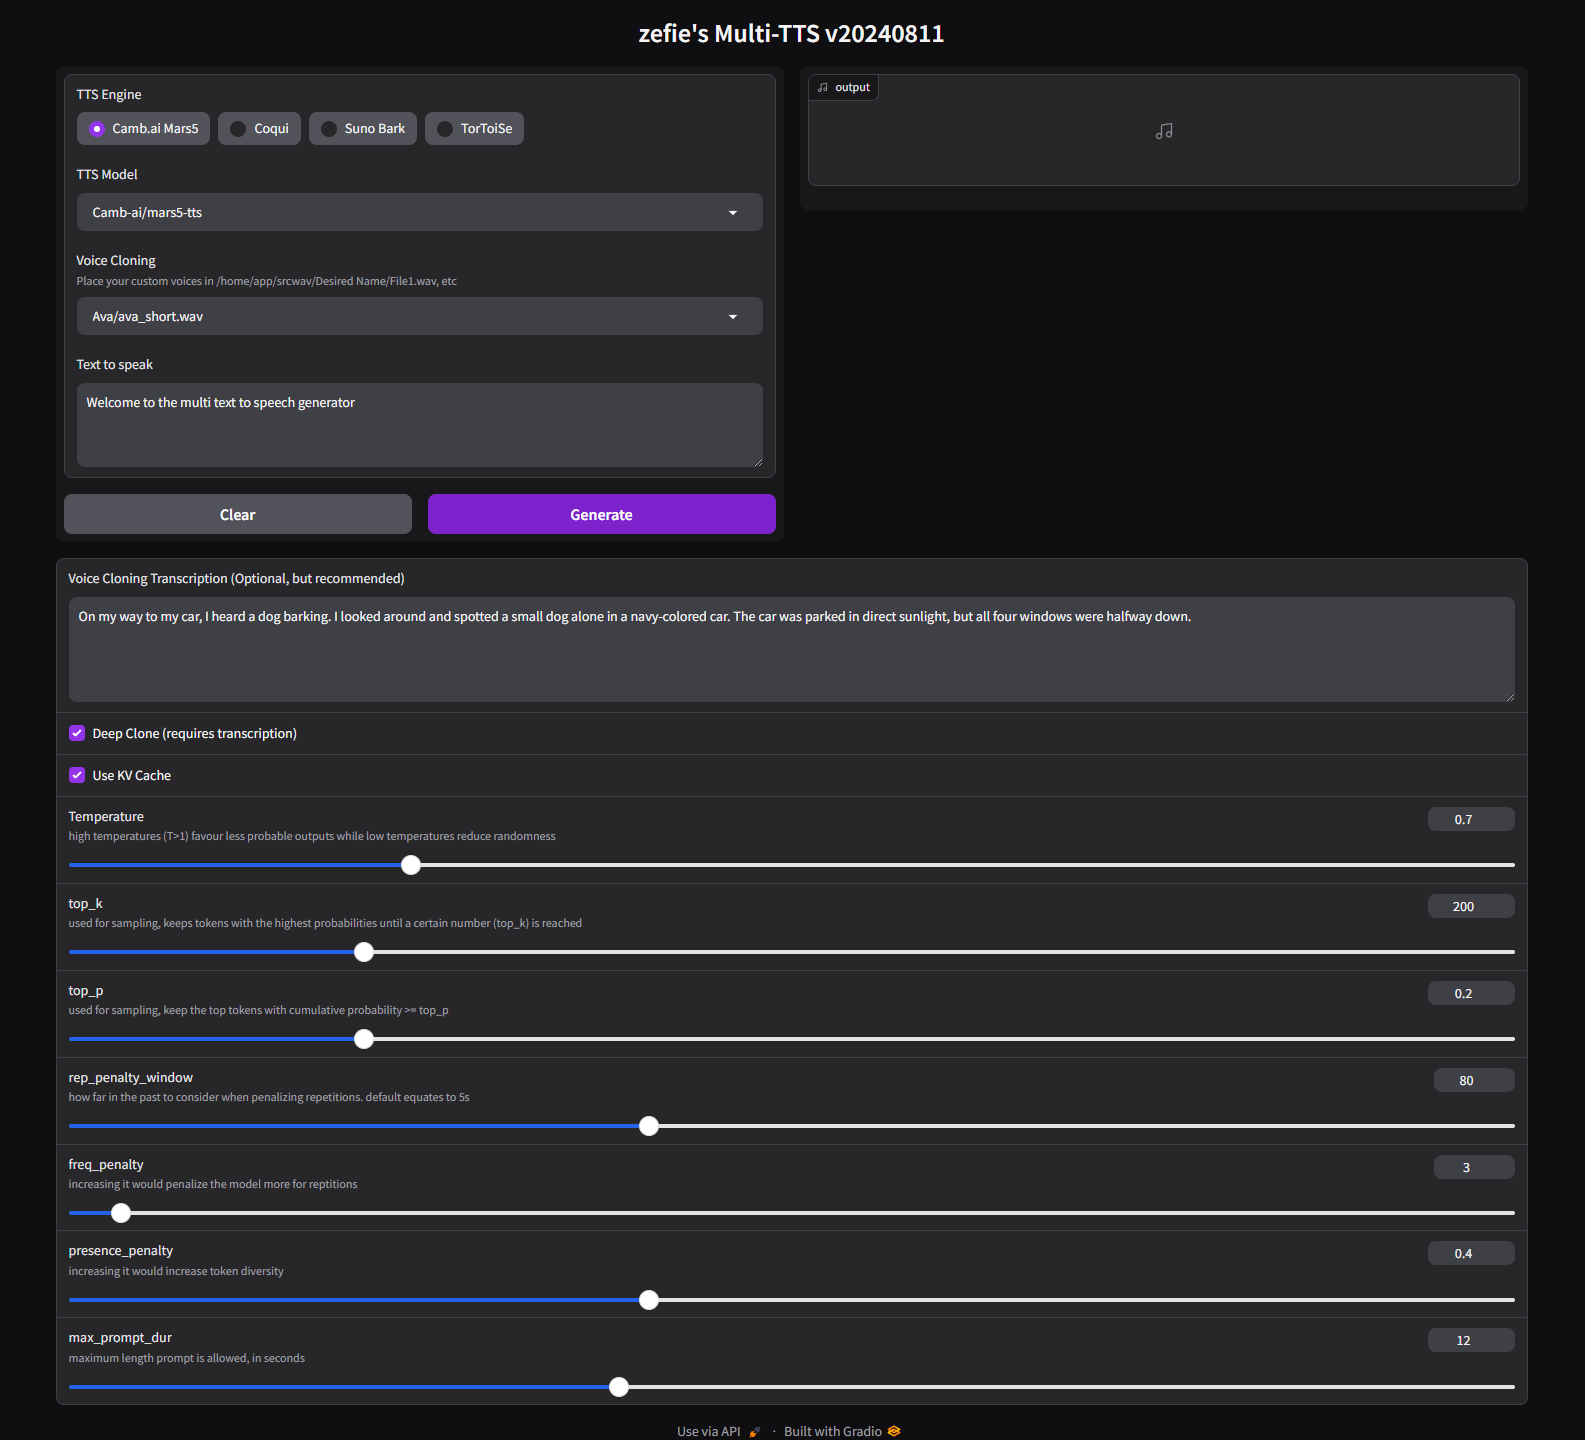
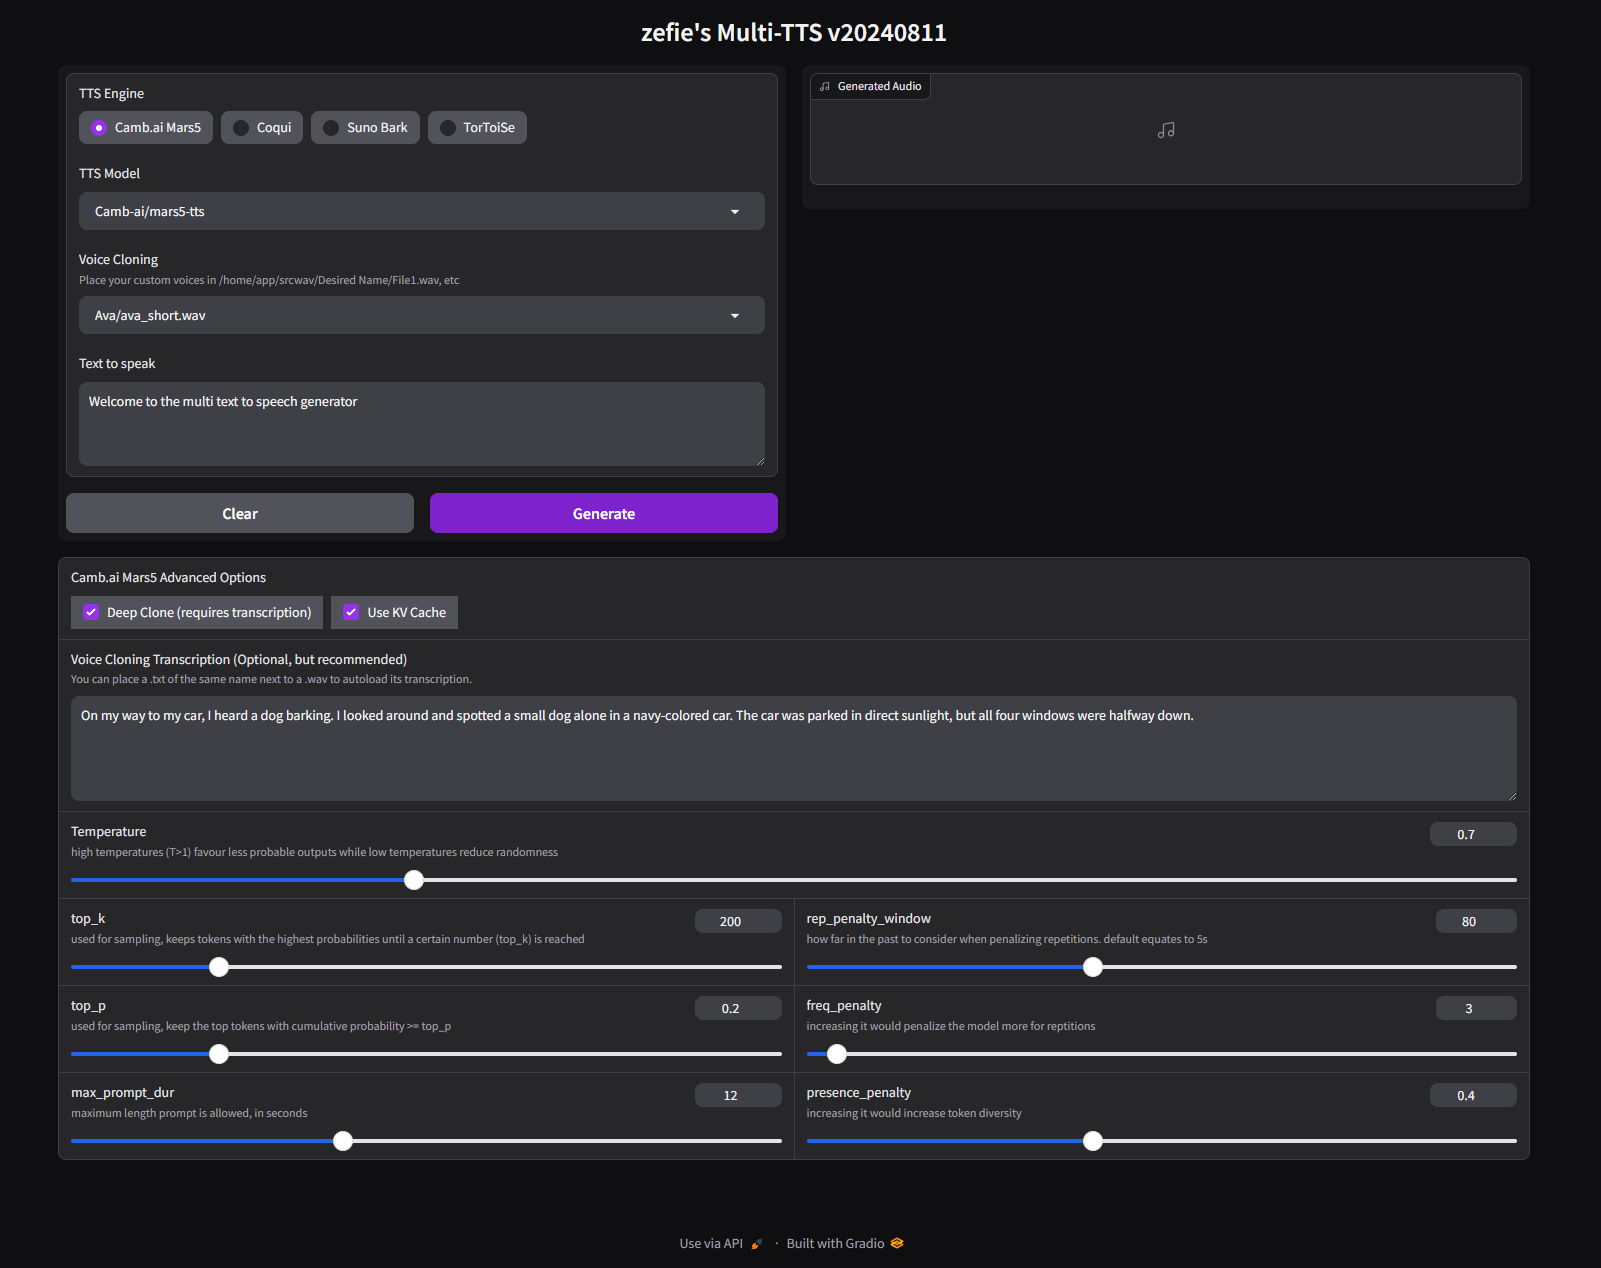
now list all coqui models, update screenshot, doc

diff --git a/data/gradio_app.py b/data/gradio_app.py
@@ -7,6 +7,7 @@ import torchaudio, torch, librosa
 print("Preloading Coqui...")
 from TTS.api import TTS
 from TTS.utils import audio
+from TTS.utils.manage import ModelManager
 print("Preloading Bark...")
 from bark import SAMPLE_RATE, generate_audio, preload_models
 print("Preloading Tortoise...")
@@ -14,13 +15,32 @@ from tortoise import api,utils
 print("Preloading Mars5...")
 from mars5.inference import Mars5TTS, InferenceConfig as config_class
 print("Loading miscellanous modules...")
-import glob, os, argparse, unicodedata, json, random, psutil, requests, re, time, builtins
+import glob, os, argparse, unicodedata, json, random, psutil, requests, re, time, builtins, sys
 import scipy.io.wavfile as wav
 from string import ascii_letters, digits, punctuation
 
 version = 20240811
 
+# Get device for Coqui
 device = "cuda" if torch.cuda.is_available() else "cpu"
+
+# save stdout to a var for restoring with unmute()
+stdout = sys.stdout
+stderr = sys.stderr
+
+def mute(full = False):
+	# Mutes any stdout text
+	f = open(os.devnull, 'w')
+	sys.stdout = f
+	if full:
+		# also mute stderr
+		sys.stderr = f
+
+def unmute():
+    # Unmutes stdout and stderr
+    sys.stdout = stdout
+    sys.stderr = stderr
+
 advanced_opts={}
 
 tts_engines = [
@@ -31,23 +51,24 @@ tts_engines = [
 ]
 
 
-qualities = [
+# Instead of models, offer qualities for TorToiSe
+tortoise_qualities = [
 	["High Quality", "high_quality"],
 	["Standard", "standard"],
 	["Fast", "fast"],
 	["Ultra Fast", "ultra_fast"],
 ]
 
-coqui_voice_models = [
-        "tts_models/multilingual/multi-dataset/xtts_v1.1",
-        "tts_models/multilingual/multi-dataset/xtts_v2",
-        "tts_models/multilingual/multi-dataset/your_tts",
-        "tts_models/en/jenny/jenny",
-        "tts_models/en/ek1/tacotron2",
-        "tts_models/en/ljspeech/glow-tts",
-        "tts_models/en/ljspeech/vits"
-    ]
+# Query Coqui for it's model list, mute to prevent dumping the list to console
+mute()
+manager = ModelManager()
+coqui_voice_models = manager.list_models()
+unmute()
 
+# This seems broken, and we already have Bark
+coqui_voice_models.remove('tts_models/multilingual/multi-dataset/bark')
+
+# Scan bark /home/app/bark/assets/* for .npz files. You could add your own to /home/app/bark/custom/yourvoice.npz
 bark_voice_models = [item.replace("./bark/assets/prompts/","").replace(".npz","") for item in sorted(glob.glob('./bark/assets/**/*.npz', recursive=True))]
 
 theme = gr.themes.Base(
@@ -129,6 +150,8 @@ def generate_tts(engine, model, voice, speaktxt):
 		cfg = config_class(deep_clone=advanced_opts['deep_clone'], rep_penalty_window=advanced_opts['rep_penalty_window'], top_k=advanced_opts['top_k'], top_p=advanced_opts['top_p'], temperature=advanced_opts['temperature'], freq_penalty=advanced_opts['freq_penalty'])
 		if len(advanced_opts['transcription']) == 0:
 			cfg.deep_clone = False
+			mars5_bool.value.remove('deep_clone')
+
 		ar_codes, output_audio = mars5.tts(speaktxt, wav, advanced_opts['transcription'], cfg=cfg)
 		audio = output_audio.detach().cpu().numpy()
 
@@ -138,15 +161,15 @@ def generate_tts(engine, model, voice, speaktxt):
 	return sr, audio
 
 with gr.Blocks(title="zefie's Multi-TTS v"+str(version), theme=theme) as demo:
-	def updateVoicesVisibility(tts, model):
+	def updateVoicesVisibility(tts, model):	
 		if (tts == 'coqui' and (model == coqui_voice_models[0] or model == coqui_voice_models[1] or model == coqui_voice_models[2])) or tts == 'tortoise' or tts == 'mars5':
 			voices = getVoices(tts)
 			voice = voices[0][1]
 			return gr.Dropdown(choices=voices, visible=True, value=voice)
 		else:
-			for item in qualities:
+			for item in tortoise_qualities:
 				if model == item[1]:
-					return gr.Dropdown(choices=qualities, visible=True, value=model)
+					return gr.Dropdown(choices=tortoise_qualities, visible=True, value=model)
 
 			return gr.Dropdown(choices=[['','']], visible=False, value="")
 
@@ -156,7 +179,7 @@ with gr.Blocks(title="zefie's Multi-TTS v"+str(version), theme=theme) as demo:
 		if value == "coqui":
 			return gr.Dropdown(choices=coqui_voice_models, value=coqui_voice_models[0], label="TTS Model")
 		if value == "tortoise":
-			return gr.Dropdown(choices=qualities, value=qualities[1][1], label="Quality")
+			return gr.Dropdown(choices=tortoise_qualities, value=tortoise_qualities[1][1], label="Quality")
 		if value == "mars5":
 			return gr.Dropdown(choices=['Camb-ai/mars5-tts'], value='Camb-ai/mars5-tts', label="TTS Model")
 
@@ -172,14 +195,17 @@ with gr.Blocks(title="zefie's Multi-TTS v"+str(version), theme=theme) as demo:
 
 	def getVoices(value):
 		if value == "mars5":
+			# Scan samples and srcwavs, and return each wav individually
 			wavs = [[item.replace('./sample/',''),item] for item in sorted(glob.glob('./sample/**/*.wav', recursive=True))]
 			wavs.extend([[item.replace('./srcwav/',''),item] for item in sorted(glob.glob('./srcwav/**/*.wav', recursive=True))])
 		elif value == "coqui" or value == "tortoise":
+			# Scan samples and srcwavs, but return the folder, not each wav
 			wavs = [[item.replace('./sample/',''),item] for item in sorted(glob.glob('./sample/*'))]
 			wavs.extend([[item.replace('./srcwav/',''),item] for item in sorted(glob.glob('./srcwav/*'))])
 		return wavs
 
 	def updateAdvancedOpts(tts, val1, val2 = None, val3 = None, val4 = None, val5 = None, val6 = None, val7 = None, val8 = None, val9 = None, val10 = None):
+		# wtf...
 		global advanced_opts
 		if tts == "tortoise":
 			use_deepspeed, kv_cache, half = [False, False, False]
@@ -214,6 +240,7 @@ with gr.Blocks(title="zefie's Multi-TTS v"+str(version), theme=theme) as demo:
 	def voiceChanged(tts, voice):
 		m5_bool_value = mars5_bool.value.copy()
 		out = ''
+		# Read .txt file if it exists and toggle Deep Clone accordingly
 		if tts == "mars5":
 			text = voice.replace(".wav",".txt")
 			if os.path.isfile(text):
@@ -245,7 +272,6 @@ with gr.Blocks(title="zefie's Multi-TTS v"+str(version), theme=theme) as demo:
 		],
 		audioout,
 		title="zefie's Multi-TTS v"+str(version),
-		theme="soft",
 		allow_flagging="never",
 		submit_btn="Generate",
 		show_progress='full',
